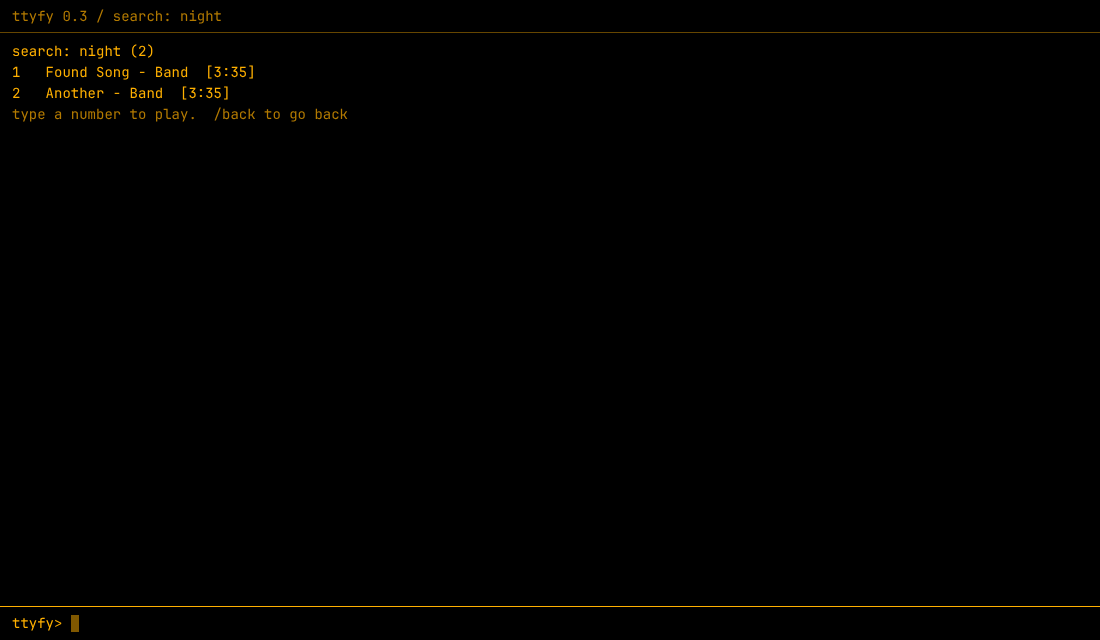
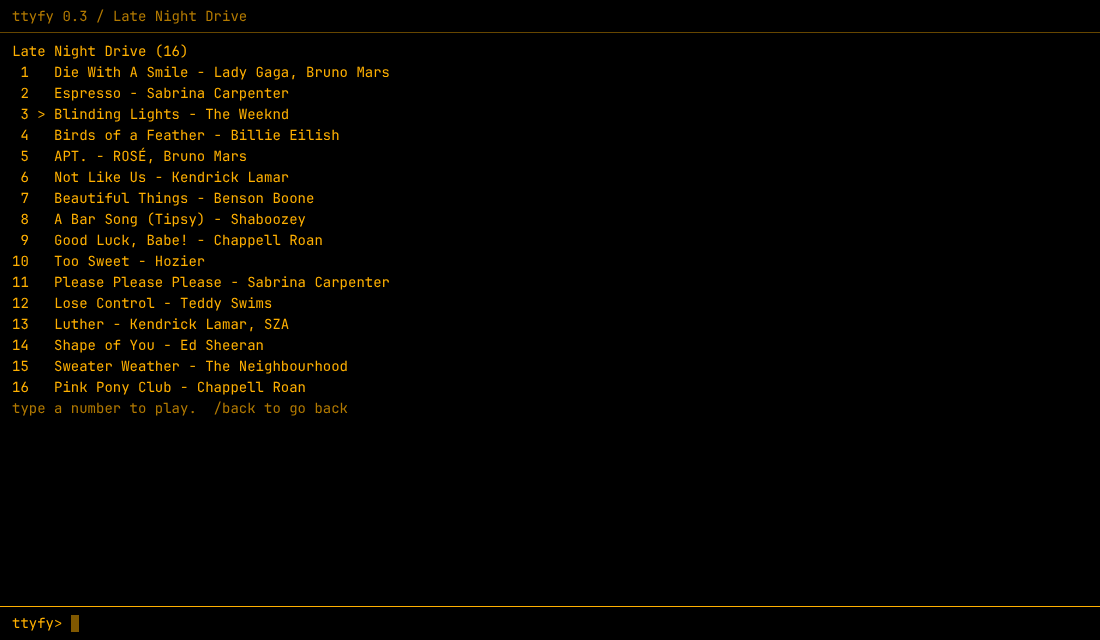
Use real songs in the screenshots

Changed region(s): [[0.0, 0.0625, 0.3709, 0.6562], [0.0927, 0.0, 0.2164, 0.0312]]

diff --git a/README.md b/README.md
@@ -6,7 +6,7 @@ Turn Spotify into a terminal. A theme for [Spicetify](https://spicetify.app).
 
 Open Spotify and you get a black screen with a prompt. No covers, no buttons. You type `/playlist`, pick a number, and music plays. It runs on top of the normal Spotify app, so your account, library and playback all work as usual.
 
-*The screenshots on this page come from a test setup with invented songs and artists.*
+*The screenshots on this page come from a test setup, not a real account. The songs and artists are real examples. The playlist names and playback are made up.*
 
 ## What you get
 
